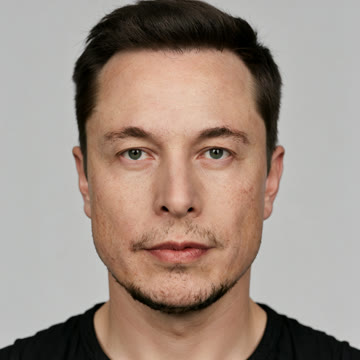
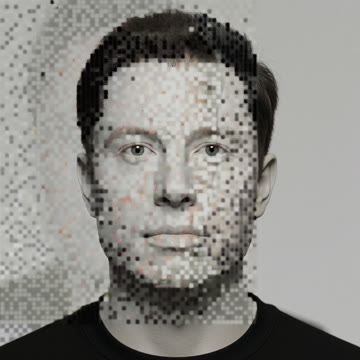
feat(mannequin): high prompt adherence - porcelain face fully prompt-controlled, only hair transfers from reference (reference-mode, low ref-boost); regenerate preview

diff --git a/_gen_mannequin_preview.py b/_gen_mannequin_preview.py
@@ -1,0 +1,62 @@
+#!/usr/bin/env python3
+"""Regenerate ONLY the mannequin style preview with high prompt adherence.
+
+The other styles re-use the 'THIS EXACT MAN' face prompt + identity mode,
+which copies the whole face. The mannequin style is the opposite: we want a
+blank glossy porcelain head whose ONLY carried-over trait is the reference
+person's hair. So this script:
+
+  * uses a mannequin-specific prompt (featureless porcelain face, no human
+    features) instead of the shared FACE prompt,
+  * uses ref_mode='reference' (Krea Kontext - prompt controls composition,
+    ref guides style/hair only), NOT identity (which copies the whole face),
+  * lower ref_boost so the porcelain face is NOT dragged toward the human ref.
+
+Output: style_previews/elon_musk_face_mannequin.png  (forced overwrite)
+"""
+import importlib.util, os, sys, time
+from pathlib import Path
+HERE = Path(os.path.dirname(os.path.abspath(__file__)))
+sys.path.insert(0, str(HERE))
+spec = importlib.util.spec_from_file_location("sb", str(HERE / "system_breakers.py"))
+sb = importlib.util.module_from_spec(spec)
+spec.loader.exec_module(sb)
+import krea2_splitnode as krea
+
+REF = HERE / "cast_refs" / "real" / "elon_musk.jpg"
+OUT = HERE / "style_previews"
+OUT.mkdir(exist_ok=True)
+assert REF.is_file(), "elon real photo missing"
+
+NAME = "mannequin"
+os.environ["STYLE"] = NAME
+
+# Mannequin-specific prompt: the ONLY human trait that transfers is the HAIR.
+# Everything else is a blank porcelain mannequin head, fully prompt-controlled.
+MANNEQUIN_FACE = (
+    "Close-up portrait of a seamless glossy porcelain mannequin head and face, "
+    "full face centered, facing the camera. Featureless smooth blank porcelain "
+    "face - NO eyes, NO nose, NO mouth, NO eyebrows, NO facial hair, NO skin "
+    "texture, NO human facial features of any kind. Completely smooth matte "
+    "off-white cream porcelain surface, like a museum display mannequin. "
+    "The ONLY part carried from the reference person is their HAIR: the "
+    "mannequin's hair is styled, colored and textured EXACTLY like the "
+    "reference man's hair (same cut, same colour, same texture, same "
+    "parting), sculpted into that hairstyle. Nothing else in frame - no "
+    "shoulders, no neck, no body. Plain light grey studio background, flat "
+    "even neutral lighting, no dramatic lighting, no rim light, one mannequin "
+    "head only."
+)
+
+p = MANNEQUIN_FACE + " " + sb._style_inject()
+out = str(OUT / f"elon_musk_face_{NAME}.png")
+print(f"[STYLEGEN] {NAME}: regenerating (ref=elon_musk.jpg, ref_mode=reference)...", flush=True)
+t0 = time.time()
+ok = krea.generate(p, seed=70001 + 9, out_path=out,
+                   ref_images=[str(REF)], denoise=1.0, upscale=False,
+                   steps=14, width=1280, height=1280,
+                   ref_mode="reference", ref_method="index_timestep_zero",
+                   ref_boost=2.0, grounding_px=768,
+                   prefix="elonface_mannequin")
+print(f"[STYLEGEN] {NAME}: {'OK' if ok else 'FAIL'} in {time.time()-t0:.0f}s -> {out}", flush=True)
+print("[STYLEGEN] DONE", flush=True)

diff --git a/system_breakers.py b/system_breakers.py
@@ -302,12 +302,17 @@ STYLE_PROFILES = {
     "mannequin": (
         "photorealistic render, ray tracing, cinematic lighting, seamless "
         "glossy porcelain mannequins with a perfectly smooth ceramic finish, "
-        "featureless smooth porcelain face (no eyes, nose or mouth carved in), "
-        "off-white cream or warm brown porcelain skin tone (never realistic "
-        "human skin), painted or sculpted hair, no doll joints, no seams, no "
-        "visible stands or supports, figures ALWAYS fully clothed head-to-toe "
-        "in complete period-accurate outfits with explicitly named footwear, "
-        "8K resolution, hyperrealistic documentary recreation"),
+        "featureless smooth blank porcelain face (no eyes, nose or mouth "
+        "carved in - a completely smooth porcelain head), off-white cream or "
+        "warm brown porcelain skin tone (never realistic human skin), NO "
+        "human facial features, no facial hair, the ONLY thing carried from "
+        "the reference person is their HAIR - the mannequin's hair is styled, "
+        "colored and textured EXACTLY like the reference photo's hair, painted "
+        "sculpted hair matching the reference hairstyle, no doll joints, no "
+        "seams, no visible stands or supports, figures ALWAYS fully clothed "
+        "head-to-toe in complete period-accurate outfits with explicitly "
+        "named footwear, 8K resolution, hyperrealistic documentary "
+        "recreation"),
 }
 
 _STYLE_SELECTED_PRINTED = {"done": False}

diff --git a/README.md b/README.md
@@ -185,6 +185,8 @@ Built-ins: `arcane` (default), `bold-outline`, `artsy`, `photoreal`, `noir`, `sy
 |---|---|---|
 | ![Editorial style](docs/images/style_previews/elon_musk_face_editorial.jpg) | ![Watercolor style](docs/images/style_previews/elon_musk_face_watercolor.jpg) | ![Mannequin style](docs/images/style_previews/elon_musk_face_mannequin.jpg) |
 
+> 🧍 **Mannequin look:** unlike the other styles, the mannequin style is engineered for **high prompt adherence over identity transfer** — the porcelain face is *fully prompt-controlled* (blank glossy head, no eyes/nose/mouth, no human features) and the **only** trait carried over from the real-person reference is their **hair** (same cut, colour and texture). It runs in Krea reference mode (not identity mode) with a low ref-boost so the prompt wins over the reference, which is exactly what makes it read as a mannequin rather than the person.
+
 > 💡 **Want your own look?** The style is just plain text injected into every prompt — so add your own and it becomes a first-class option on every future run:
 > ```
 > python system_breakers.py --add-style vhs "grainy 90s VHS camcorder, scanlines, oversaturated, handheld"
